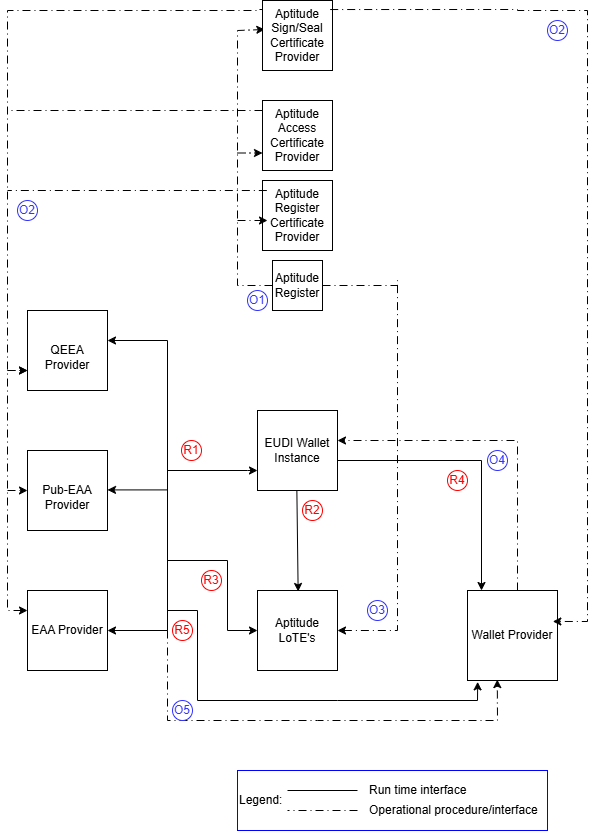
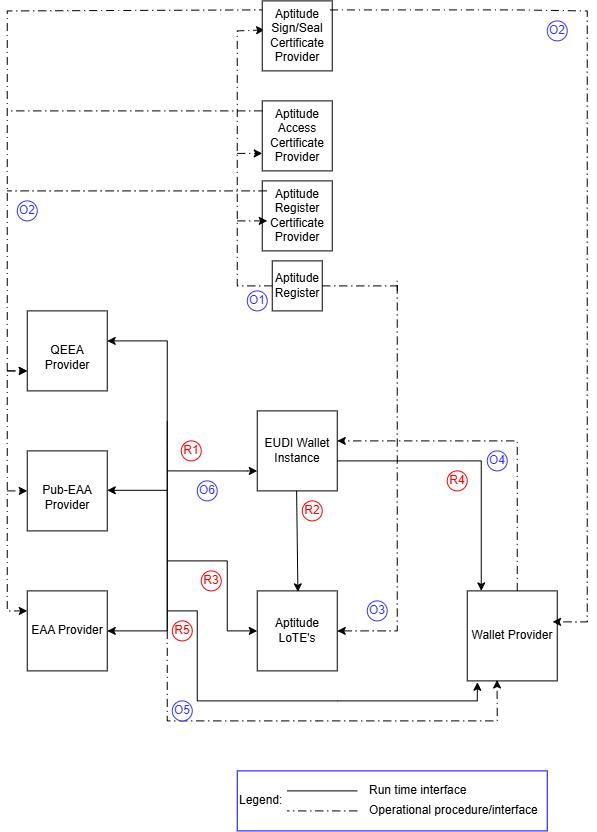
Changes to release ver 1.0
Supporting issue #322
https://github.com/APTITUDE-Consortium/aptitude-eudi-wallet-specs/issues/322

diff --git a/docs/wp2/generic-issuance-flow-specification.md b/docs/wp2/generic-issuance-flow-specification.md
@@ -1,7 +1,7 @@
 # Generic issuance flow specification
 
-Version 0.91 (draft)
-Date 20-08-2026
+Version 1.0
+Date 11-09-2026
 
 ## Authors
 
@@ -122,7 +122,14 @@ href="https://github.com/eu-digital-identity-wallet/eudi-doc-standards-and-techn
 href="https://aptitude-consortium.github.io/wp2-trust-specifications/latest/sections/trust-management-lifecycle/#token-status-list-wallet-unit-attestation-profile">APTITUDE Trust management and lifecycle</a>, <a
 href="https://datatracker.ietf.org/doc/draft-ietf-oauth-status-list/21/">IETF Token Status List Draft 21</a></td>
 <td>Optional scheduled revocation checks by the Issuer against the Wallet Provider's status lists for WIA and KA, as per <a
-href="https://eudi.dev/3.0.0/annexes/annex-2/annex-2.02-high-level-requirements-by-topic/#a2322-topic-38-wallet-unit-revocation">ARF Topic 38</a> and requirement WURevocation_19.<br><br><em>Note: As specified in <a href="https://aptitude-consortium.github.io/wp2-trust-specifications/latest/sections/trust-management-lifecycle/#token-status-list-wallet-unit-attestation-profile">the APTITUDE Trust Management and Lifecycle profile</a>, for other attestation types within the APTITUDE profiles:</em><ul><li>Both WIA and KA operational checks SHALL be performed for device-bound credentials when operational monitoring is enabled.</li><li>Only the WIA operational check SHALL be performed for non-device-bound attestations when operational monitoring is enabled.</li></ul></td>
+href="https://eudi.dev/3.0.0/annexes/annex-2/annex-2.02-high-level-requirements-by-topic/#a2322-topic-38-wallet-unit-revocation">ARF Topic 38</a> and requirement WURevocation_19.<br><br><em>Note: As specified in <a href="https://aptitude-consortium.github.io/wp2-trust-specifications/latest/sections/trust-management-lifecycle/#token-status-list-wallet-unit-attestation-profile">the APTITUDE Trust Management and Lifecycle profile</a>, for other attestation types within the APTITUDE profiles:</em><ul><li>Both WIA and KA operational checks SHALL be performed for device-bound credentials when operational monitoring is enabled.</li><li>Only the WIA operational check SHALL be performed for non-device-bound attestations when operational monitoring is enabled.\[^1]</li></ul></td>
+</tr>
+<tr>
+<td>O6</td>
+<td><a
+href="https://openid.net/specs/openid-4-verifiable-credential-issuance-1_0.html#name-notification-endpoint">OID4VCI ver1.0 notification endpoint</a>, <a
+href="../RFCs/RFC001.md#87-notification-interface">RFC001 notification interface</a></td>
+<td>Notification channel allowing issuer to perform life cycle management of the issued credential\[^1]</td>
 </tr>
 <tr>
 <td>R1</td>
@@ -181,7 +188,7 @@ href="https://datatracker.ietf.org/doc/draft-ietf-oauth-status-list/21/">IETF To
 </tbody>
 </table>
 
-The process behind O1, O2 and O3 is further explained in Apptitude on-boarding document, please look here <span class="mark"><</span>
+O1-6 interfaces are not used runtime and are therefore not further elaborated within this issuance flow specification. The process behind O1, O2 and O3 is explained in Apptitude on-boarding document, please look here <span class="mark"><</span>
 <span class="mark">[wp2-trust-specifications/docs/topics/onboarding-process.md at main · APTITUDE-Consortium/wp2-trust-specifications](https://github.com/APTITUDE-Consortium/wp2-trust-specifications/blob/main/docs/topics/onboarding-process.md)></span> for more details.
 
 ## 3\. Interaction details
@@ -199,14 +206,14 @@ In follow up table the requirements are listed with decision if it is in the sco
 
 |**Requirement**|**Scope decision**|
 |-|-|
-|Authorization and pre-authorized code flows|In scope\[^1]\[^2]|
+|Authorization and pre-authorized code flows|In scope\[^2]\[^3]|
 |Wallet initiated and issuer initiated flow|In scope|
 |Same device and cross-device flow|In scope|
 |Immediate and deferred issuance|In scope|
 |Nonce Endpoint offered by the issuer|In scope|
 |Metadata Endpoint offered by the issuer|In scope|
 |Sending credential offer by value and by reference|In scope|
-|Notification Endpoint for credential lifecycle mngmt|Not in the scope|
+|Notification Endpoint for credential lifecycle mngmt|In scope|
 
 #### 3.1.2 HAIP requirements
 
@@ -528,6 +535,8 @@ href="../RFCs/RFC001.md#88-deferred-credential-endpoint">RFC-01
 </tbody>
 </table>
 
-\[^1]: Note that wallet must implement both code flows, the issuer may choose to implement only one
+\[^1]: Scheduled statuslist checks on WIA/KA's and attestation life cycle event notifications from wallet instance towards Issuer are not showned within the sequence diagram, as there are not happening during the actual credential issuance process.
 
-\[^2]: Note that pre-authorized code flow doesn’t meet requirements for issuing the attestation with Level of Assurance HIGH
+\[^2]: Note that wallet must implement both code flows, the issuer may choose to implement only one.
+
+\[^3]: Note that pre-authorized code flow doesn’t meet requirements for issuing the attestation with Level of Assurance HIGH.
